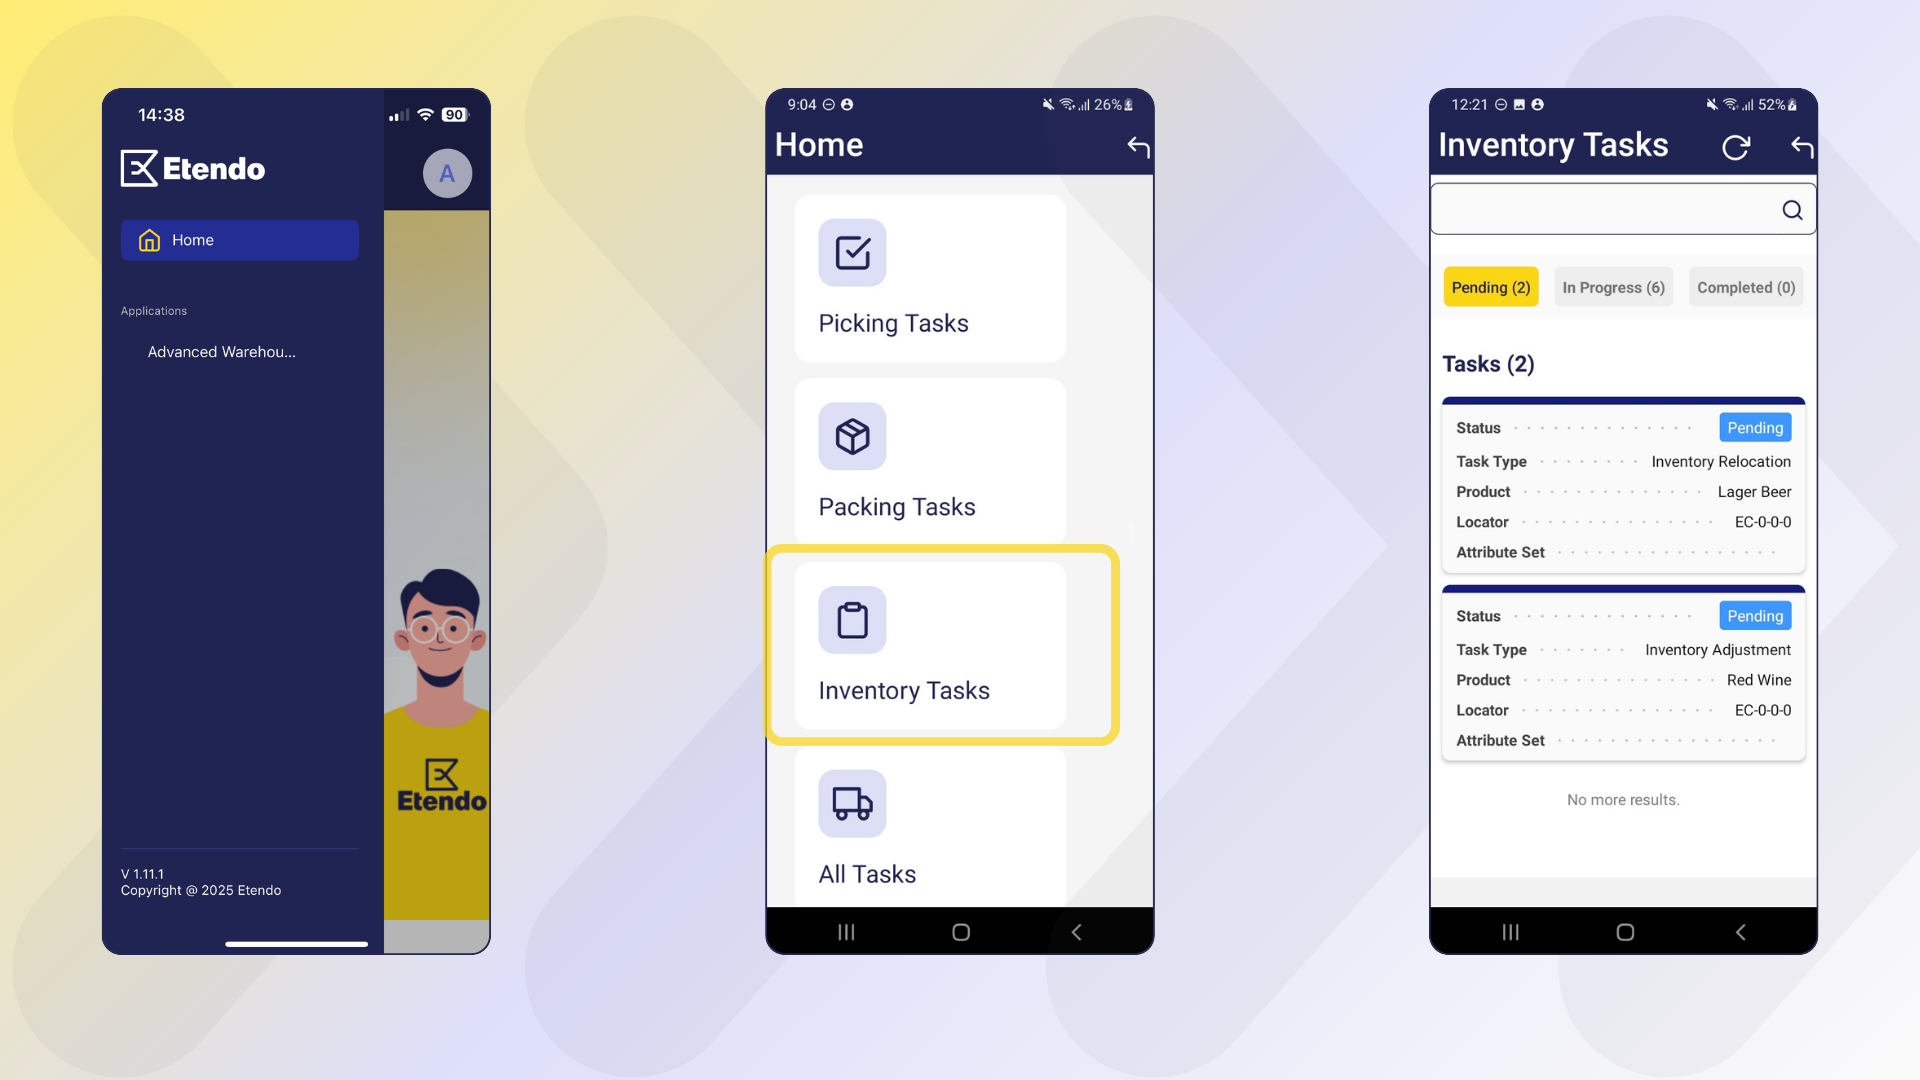
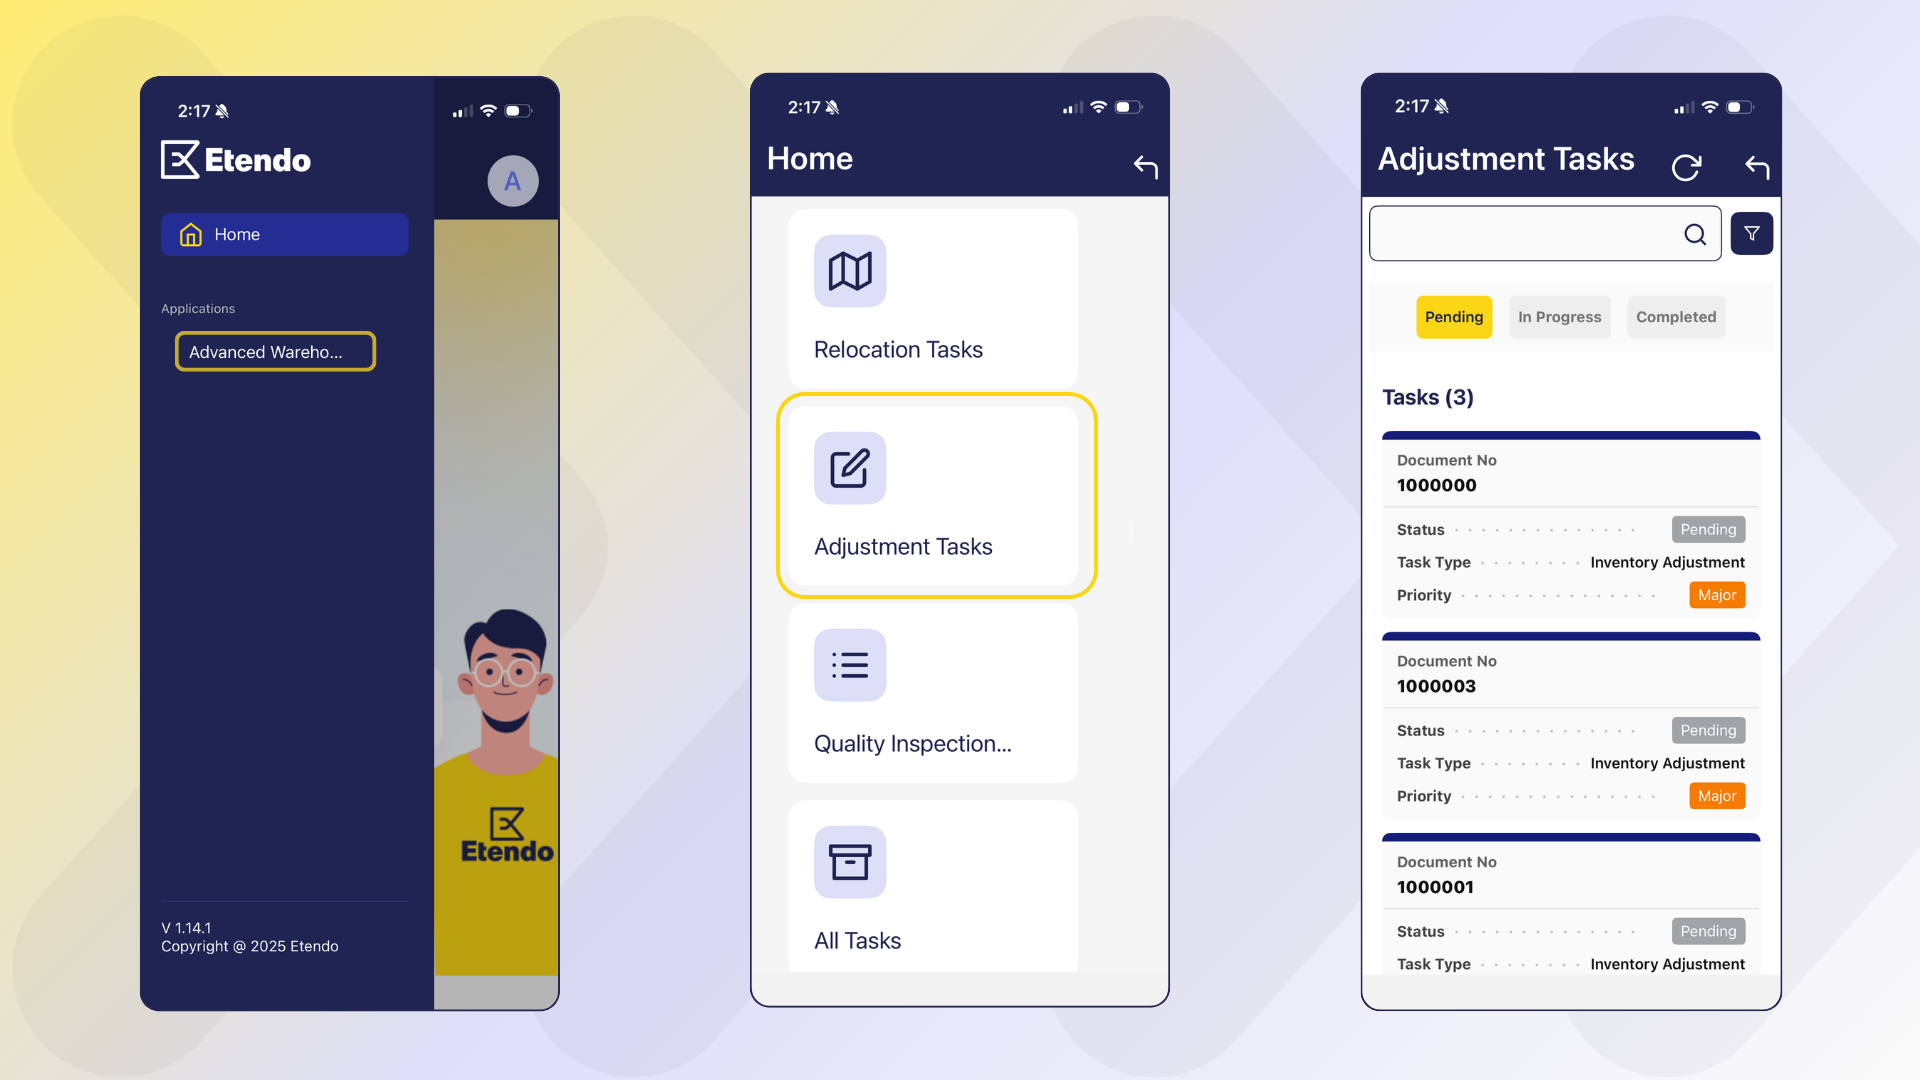
Feature ETP-2663: Update Adjustment Tasks section
- Renamed "Inventory Tasks" to "Adjustment Tasks" for clarity.
- Enhanced descriptions of inventory adjustment tasks and their processes.
- Updated images and instructions related to task management in Etendo Mobile.

Changed region(s): [[0.0312, 0.0611, 0.3125, 0.9472], [0.6875, 0.0611, 0.9688, 0.9167], [0.375, 0.0611, 0.625, 0.9167]]

diff --git a/docs/user-guide/etendo-classic/optional-features/bundles/warehouse-extensions/advanced-warehouse-management.md b/docs/user-guide/etendo-classic/optional-features/bundles/warehouse-extensions/advanced-warehouse-management.md
@@ -797,14 +797,11 @@ Once completed, the task will appear in the Completed Tasks section. From there,
 ![](../../../../../assets/user-guide/etendo-classic/optional-features/bundles/warehouse-extensions/advanced-warehouse-management/packing-mobile-9.png)
 
 
-### Inventory Tasks
+### Adjustment Tasks
 
-Two types of tasks have been added:  **Inventory Adjustment** and **Inventory Relocation**.  These tasks are created and assigned directly from Etendo and are available in Etendo Mobile from the **Inventory Tasks** menu for the operator to execute.
+Inventory adjustment tasks allow warehouse operators to perform physical counts and stock adjustments directly from the mobile app. These tasks are generated from physical inventories in the ERP system.
 
-**Inventory Adjustment**
-Allows you to plan counting or stock adjustment tasks. It can be used to update existing quantities or to record stock for products that did not have previous inventory.
-
-This corresponds to the same operation performed in Etendo **Physical Inventory** window: recording the actual counted quantity of a product and updating the stock accordingly, either by correcting existing quantities or entering stock where there was none. If the inventory status changes during the adjustment, the system automatically moves the product to the storage bin associated with that new status, reflecting the current stock condition.
+This functionality corresponds to the same operation performed in Etendo's **Physical Inventory** window: recording the actual counted quantity of a product and updating the stock accordingly, either by correcting existing quantities or entering stock where there was none previously. When the inventory status changes during the adjustment process, the system automatically moves the product to the storage bin associated with the new status, accurately reflecting the current stock condition.
 
 !!!Info
     For more information about how to use this functionality in Etendo, visit [Physical Inventory](../../../basic-features/warehouse-management/transactions.md#physical-inventory).
@@ -812,57 +809,30 @@ This corresponds to the same operation performed in Etendo **Physical Inventory*
 
 #### Process Start (Etendo)
 
-The process begins with the creation of **Tasks** within Etendo, using the Task window.
+:material-menu: `Application` > `Warehouse Management` > `Transactions` > `Physical Inventory`
+
+The process begins by creating tasks within Etendo using the **Physical Inventory** window. A new record is created with product lines for which stock verification and adjustment is desired. Once this is ready, the task must be generated using the **Generate Task** button.
 
 ![](../../../../../assets/user-guide/etendo-classic/optional-features/bundles/warehouse-extensions/advanced-warehouse-management/inventory-task-window-1.png)
 
-**Header**
+#### Access to Adjustment Tasks (Etendo Mobile)
 
-With the installation of the **Advanced Warehouse Management** module, new specific tasks are incorporated that expand the possibilities of logistics management. The header retains the basic fields for a task and adds options in the *Task Type* field, which determine the type of action to be performed:
-
-- **Inventory Adjustment**: Used to plan stock counting or adjustment tasks. It can update existing quantities or register stock for products that previously had no inventory.
-
-![](../../../../../assets/user-guide/etendo-classic/optional-features/bundles/warehouse-extensions/advanced-warehouse-management/inventory-task-window-2.png)
-
-Fields to note:
-
-- **Product**: (required) Product on which the task will be performed. When you select a product, other related fields are automatically filled in.
-- **Storage bin**: (read-only) displays the current location of the selected product. It is automatically completed when the product is uploaded.
-- **Attribute Set Value**: (read-only) indicates the defined attributes of the product (e.g., lot, series). It is automatically completed when the product is uploaded.
-- **Quantity**: (read-only) reflects the current quantity available in the storage bin corresponding to the product. It is automatically completed when the product is uploaded.
-- **UOM**: (read-only) displays the unit of measure in which the product is managed. It is automatically completed when the product is uploaded.
-- **Creation Date**: (read-only) records the date and time the task was created.
-
-#### Access to Inventory Tasks (Etendo Mobile)
-
-When accessing Etendo Mobile into the Inventory Tasks section, all tasks and their corresponding statuses, belonging to the logged in user, will be displayed. By default, the tasks are shown in Pending status.
+When accessing Etendo Mobile into the Adjustment Tasks section, all tasks and their corresponding statuses, belonging to the logged in user, will be displayed. By default, the tasks are shown in Pending status.
 
 ![](../../../../../assets/user-guide/etendo-classic/optional-features/bundles/warehouse-extensions/advanced-warehouse-management/inventory-tasks-mobile.png)
 
-#### Inventory Adjustment 
+To **Adjust** inventory
 
-!!!Important 
-    These actions are possible through the use of the [movement rules](#movement-rules-configuration-window) functionality and the creation/use of [custom statuses](#creating-inventory-statuses) in Etendo, explained above.
-
-![](../../../../../assets/user-guide/etendo-classic/optional-features/bundles/warehouse-extensions/advanced-warehouse-management/inventory-tasks-adjust-1.png)
-
-To **Adjust** inventory:
-
-- Enter the **Inventory Tasks** menu. There, tasks are divided by status: *Pending*, *In Progress*, and *Completed*.
-- Search and select the task from the list or by the search engine.
-- When a card is selected, a screen with the task information opens. 
-- Press **Start Adjustment** button
-- Complete **Quantity Count** field.
-- Confirm by pressing **Process** button.
+- Access the **Adjustment Tasks** menu. Tasks are organized by status: *Pending*, *In Progress*, and *Completed*.
+- Search for and select the desired task from the list or using the search function.
+- When a task is selected, a screen opens displaying the task information.
+- Press the **Start Adjustment** button to begin the process.
+- Enter relevant information including storage bin details and quantity counts.
+- Scan products to stock them or manually enter the data.
+- Confirm the task by pressing the **End Adjustment** button.
+- Confirm that you want to complete the task.
 
 ![](../../../../../assets/user-guide/etendo-classic/optional-features/bundles/warehouse-extensions/advanced-warehouse-management/inventory-tasks-status-1.png)
-
-To change inventory **Status**:
-
-- Change the inventory Status in **To Status** field. 
-- The Default status options are: *Undefined*, *Blocked*, *Available*, *Quality-Control*, *Quarantine*, *Damage*, but each company can define its own statuses
-- Confirm by pressing **Process** button.
-
 
 ### Relocation Tasks
 
